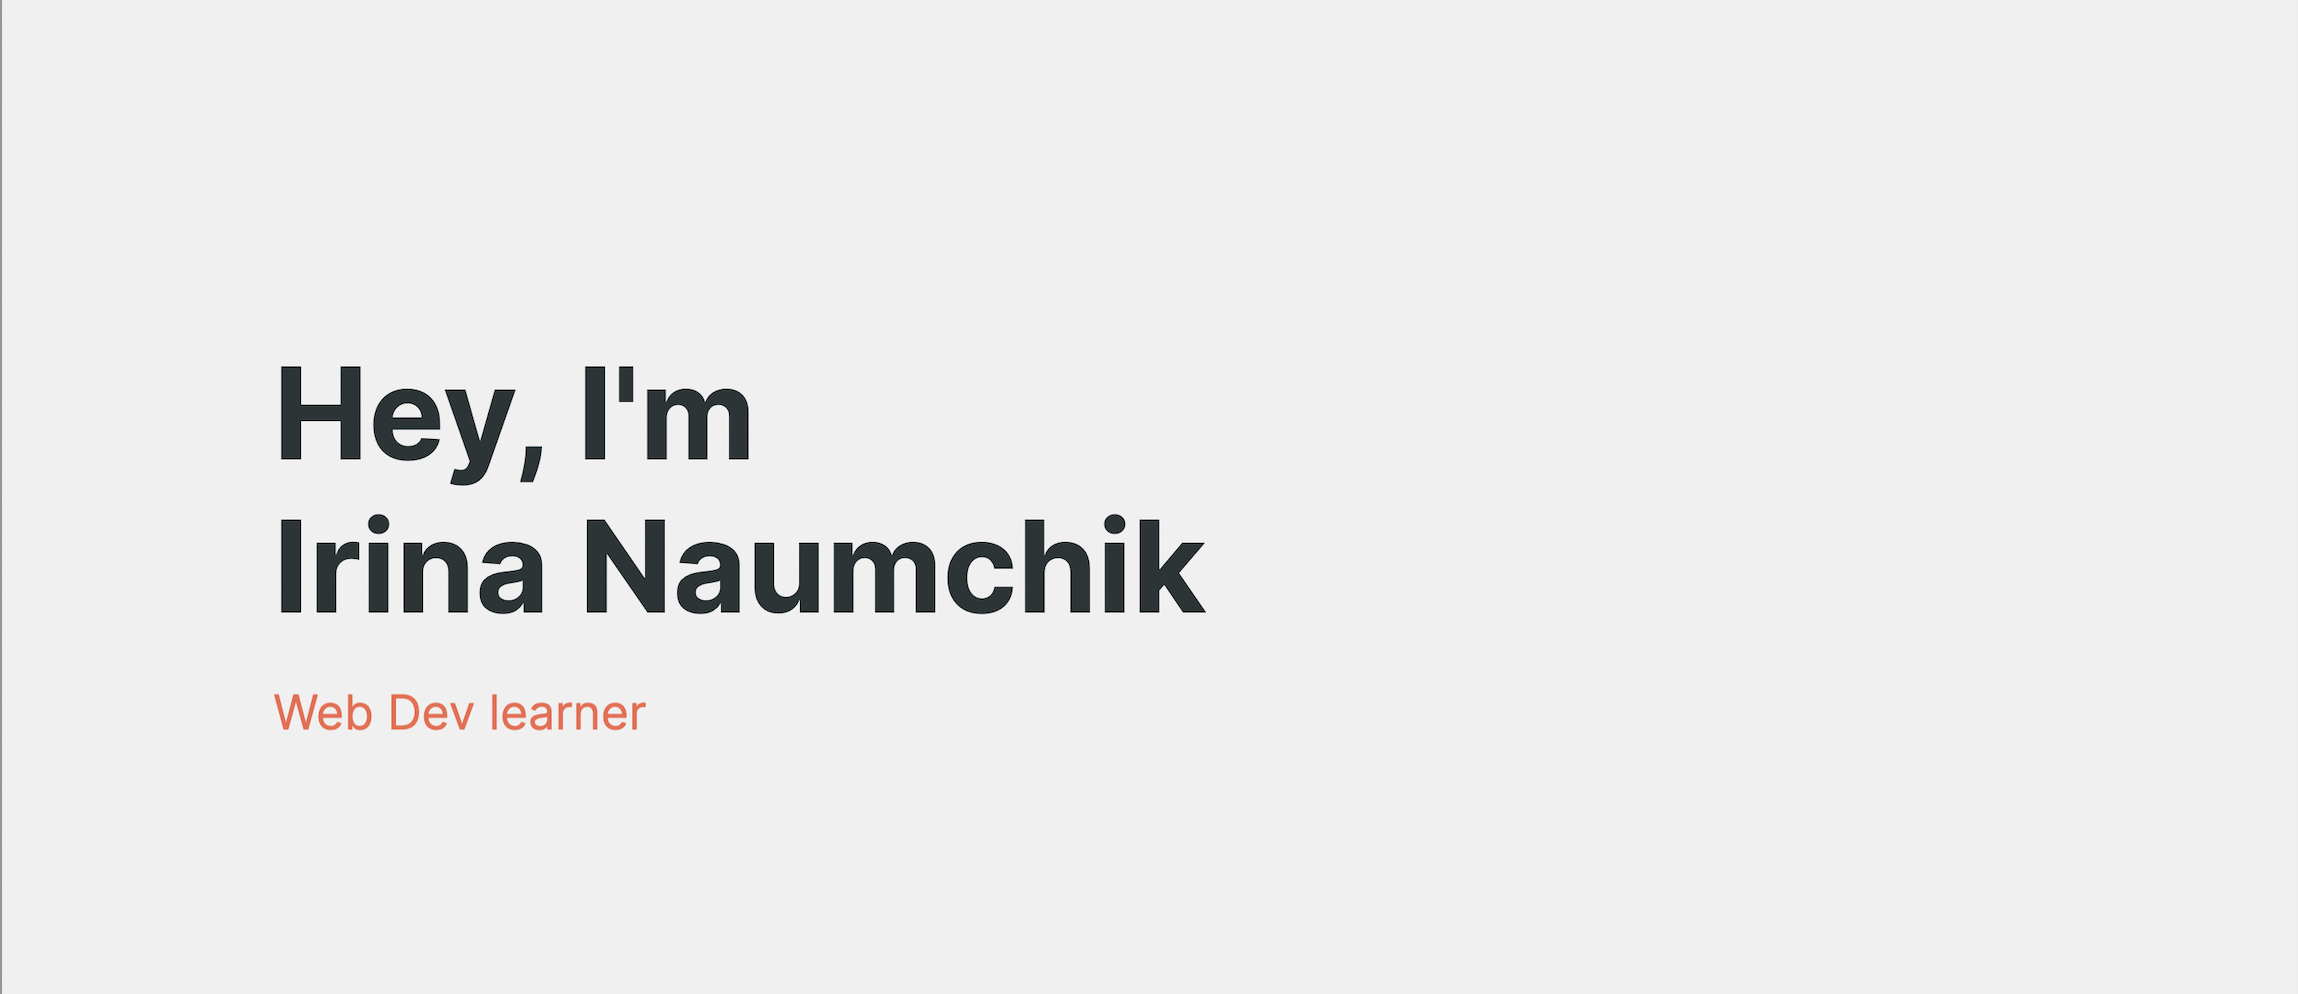
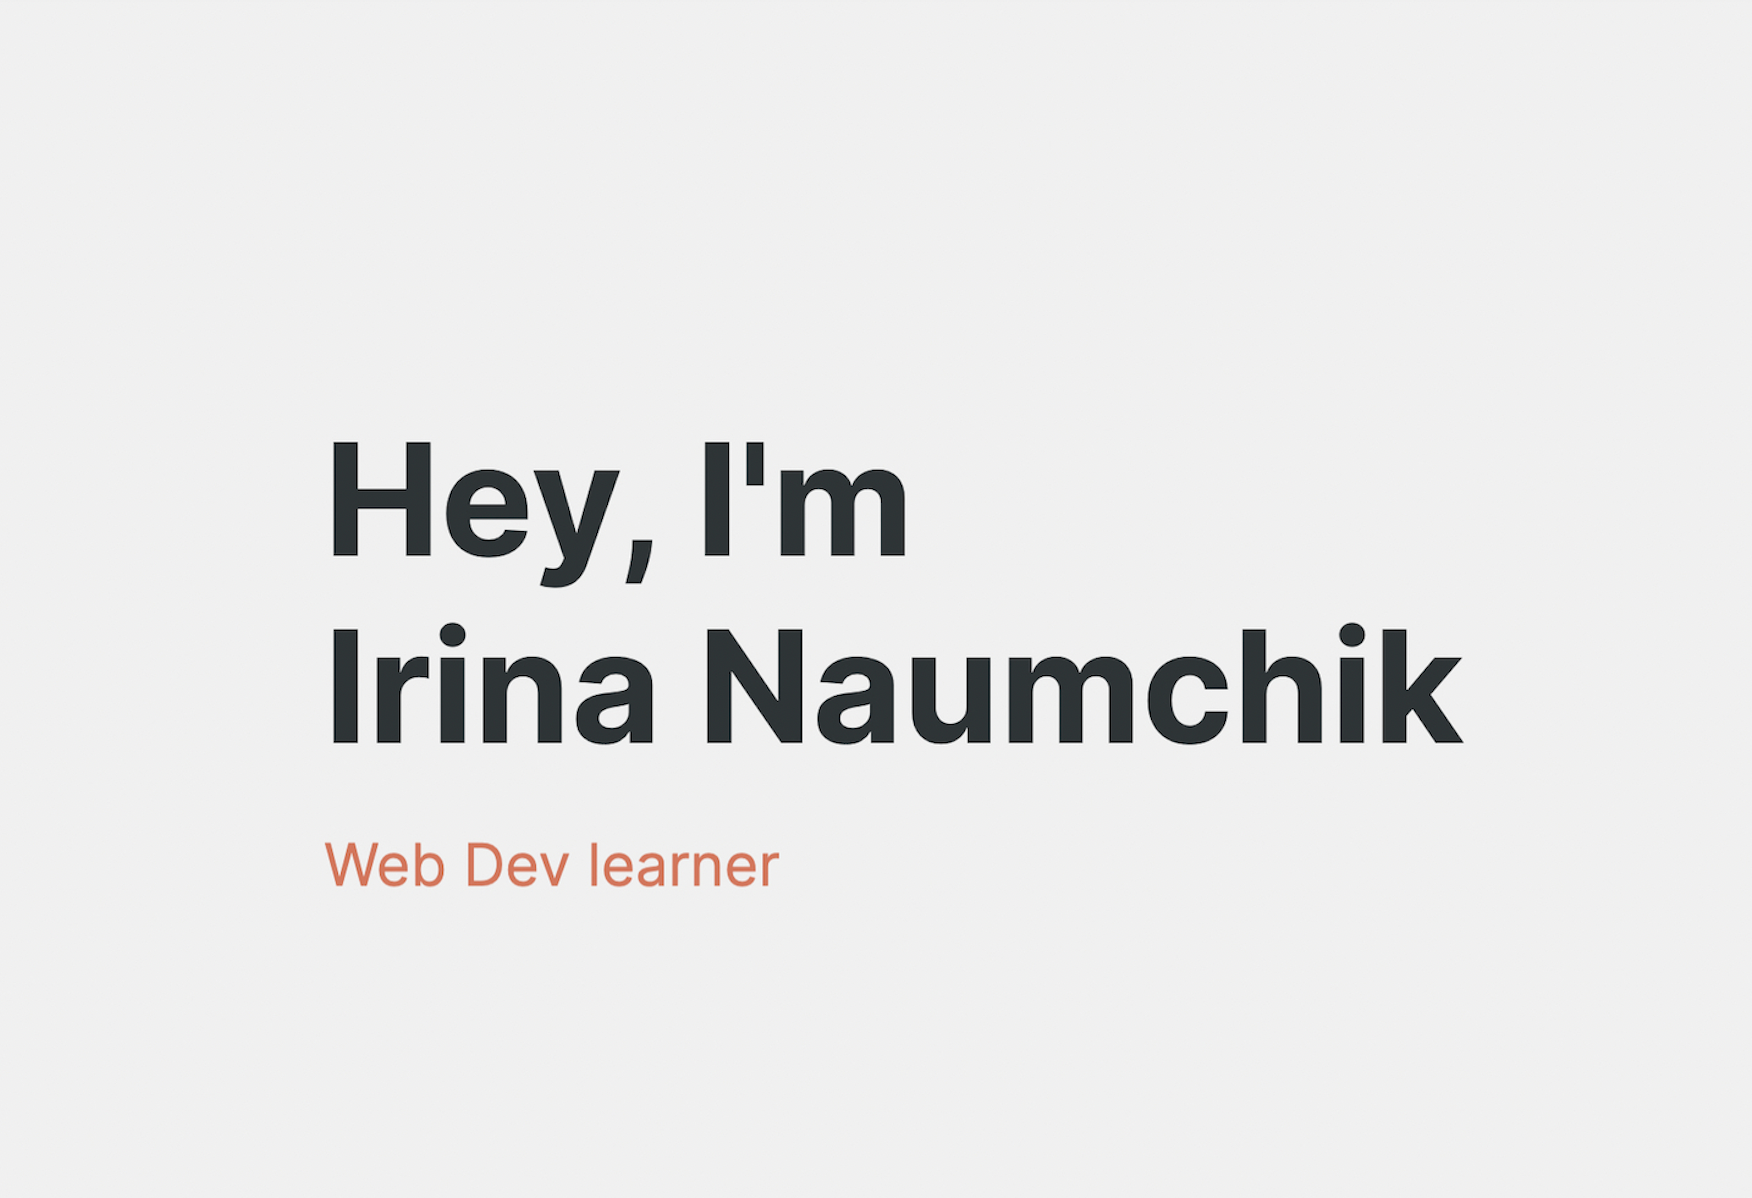
add social media preview

diff --git a/src/index.html b/src/index.html
@@ -4,6 +4,11 @@
 		<meta charset="utf-8">
 		<title>I'm Irina Naumchik</title>
 		<meta name="viewport" content="width=device-width, initial-scale=1">
+    <meta property="og:image" content="https://raw.githubusercontent.com/naumch1k/web-naumch1k/main/src/images/social-media-preview.jpg"/>
+    <meta property="og:title" content="Hey, I'm Irina Naumchik"/>
+    <meta property="og:description" content="Personal Website"/>
+    <meta property="og:image:width" content="1200"/>
+    <meta property="og:image:height" content="630"/>
 	</head>
 
 	<body class="page">
